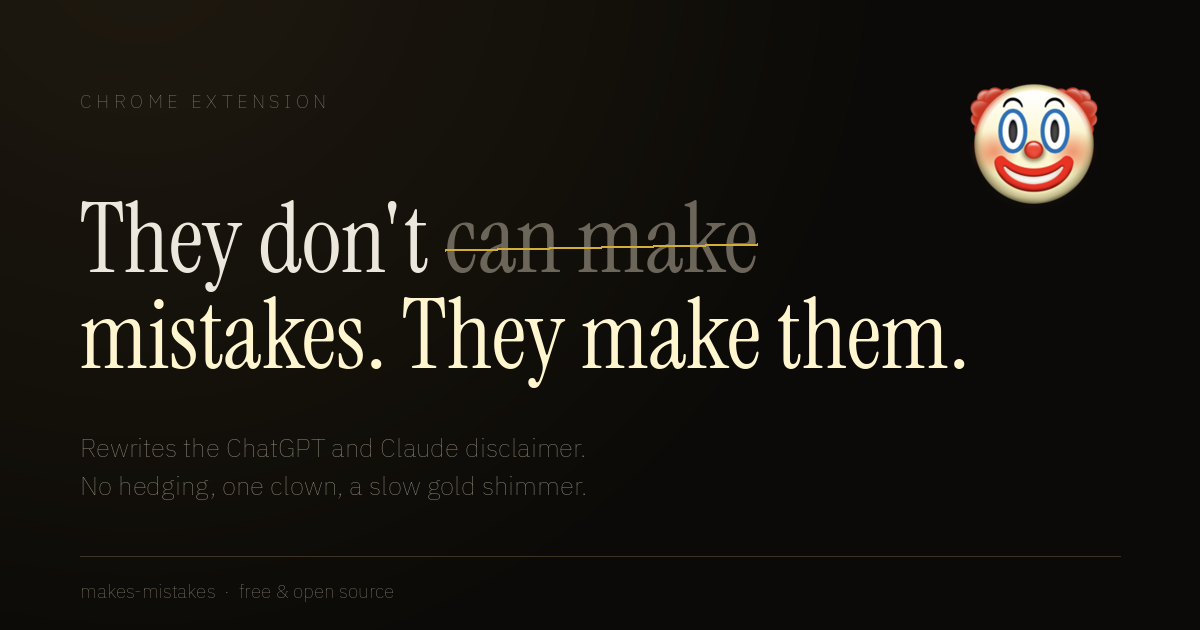
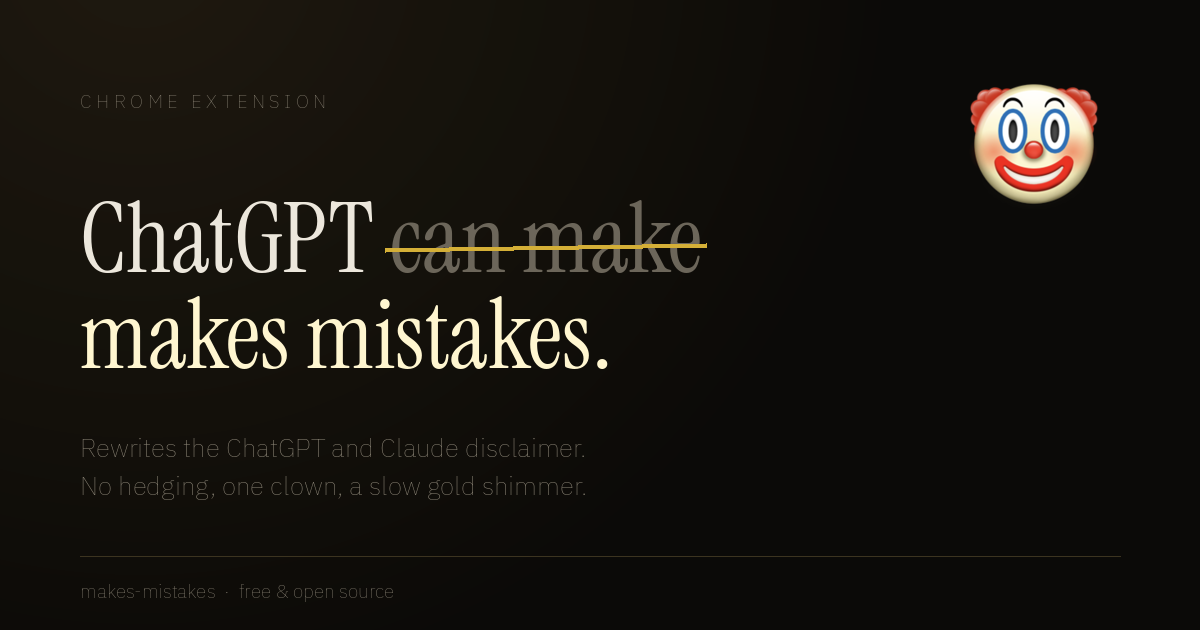
fix: rewrite the hero so the strikethrough reads correctly

Changed region(s): [[0.0617, 0.3016, 0.8017, 0.6333]]

diff --git a/site/src/routes/index.tsx b/site/src/routes/index.tsx
@@ -42,19 +42,21 @@ function Home() {
           </p>
 
           <h1 className="font-heading rise mt-6 text-[clamp(2.75rem,9vw,5.5rem)] leading-[1.04] tracking-tight [animation-delay:80ms]">
+            {/* Reads correctly with the struck-out words ignored: "ChatGPT makes mistakes." */}
             <span className="block">
-              They don't{" "}
-              <span className="text-muted-foreground/70 relative italic">
+              ChatGPT{" "}
+              <span className="text-muted-foreground/45 relative italic">
                 can make
-                <span className="bg-gold/70 absolute inset-x-0 top-1/2 h-px -rotate-2" />
+                <span className="bg-gold absolute inset-x-[-0.06em] top-[0.52em] h-[0.045em] -rotate-1 rounded-full" />
               </span>
             </span>
-            <span className="gilded sweep mt-2 block font-normal">mistakes. They make them.</span>
+            <span className="gilded sweep mt-1 block font-normal">makes mistakes.</span>
           </h1>
 
           <p className="rise text-muted-foreground mt-8 max-w-xl text-base leading-relaxed [animation-delay:160ms] sm:text-lg">
-            A very small extension that edits the footer disclaimer on ChatGPT and Claude, gilds
-            what's left, and hands you a button for when the answer is confidently wrong.
+            A very small extension that drops the hedge from the footer disclaimer on ChatGPT and
+            Claude, gilds what's left, and hands you a button for when the answer is confidently
+            wrong.
           </p>
 
           <div className="rise mt-10 flex flex-wrap items-center gap-4 [animation-delay:240ms]">

diff --git a/site/src/lib/links.ts b/site/src/lib/links.ts
@@ -12,6 +12,6 @@ export const links = {
 
 export const site = {
   name: "Makes Mistakes",
-  tagline: "They don't can make mistakes. They make them.",
+  tagline: "ChatGPT makes mistakes. The footer finally admits it.",
   url: "https://makes-mistakes-theta.vercel.app",
 }

diff --git a/scripts/make-og.py b/scripts/make-og.py
@@ -48,14 +48,15 @@ kicker = sans(19, 500)
 
 draw.text((80, 88), "C H R O M E   E X T E N S I O N", font=kicker, fill=MUTED)
 
+# Reads correctly with the struck-out words ignored: "ChatGPT makes mistakes."
 y = 176
-draw.text((80, y), "They don't ", font=title, fill=CREAM)
-offset = draw.textlength("They don't ", font=title)
+draw.text((80, y), "ChatGPT ", font=title, fill=CREAM)
+offset = draw.textlength("ChatGPT ", font=title)
 draw.text((80 + offset, y), "can make", font=title, fill=FADED)
 strike = draw.textlength("can make", font=title)
-draw.line([(80 + offset, y + 74), (80 + offset + strike, y + 68)], fill=GOLD, width=3)
+draw.line([(80 + offset - 4, y + 74), (80 + offset + strike + 4, y + 69)], fill=GOLD, width=5)
 
-draw.text((80, y + 96), "mistakes. They make them.", font=title, fill=GOLD_LIT)
+draw.text((80, y + 96), "makes mistakes.", font=title, fill=GOLD_LIT)
 
 draw.text((80, 430), "Rewrites the ChatGPT and Claude disclaimer.", font=body, fill=MUTED)
 draw.text((80, 468), "No hedging, one clown, a slow gold shimmer.", font=body, fill=MUTED)